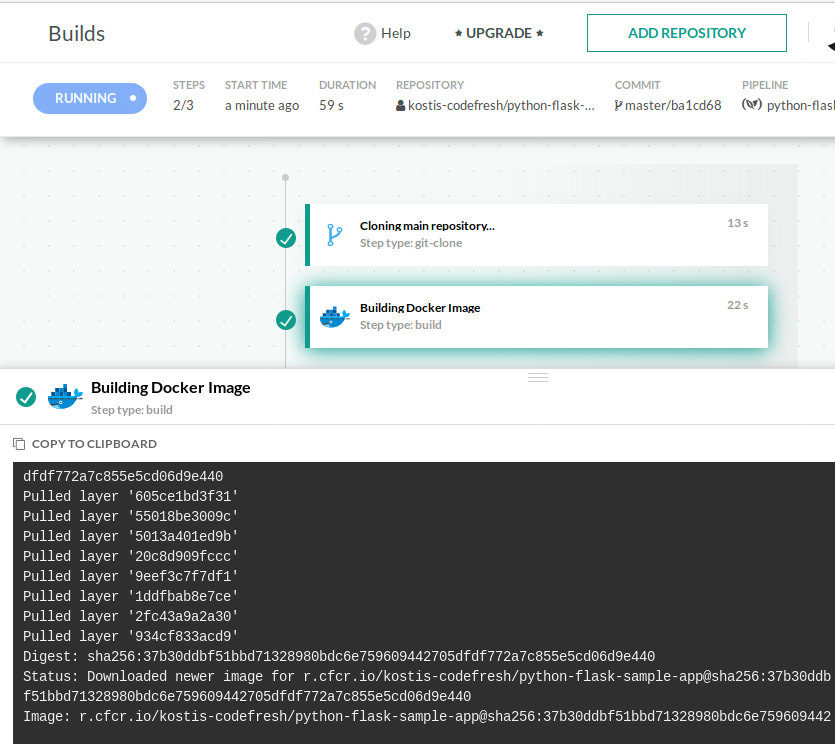
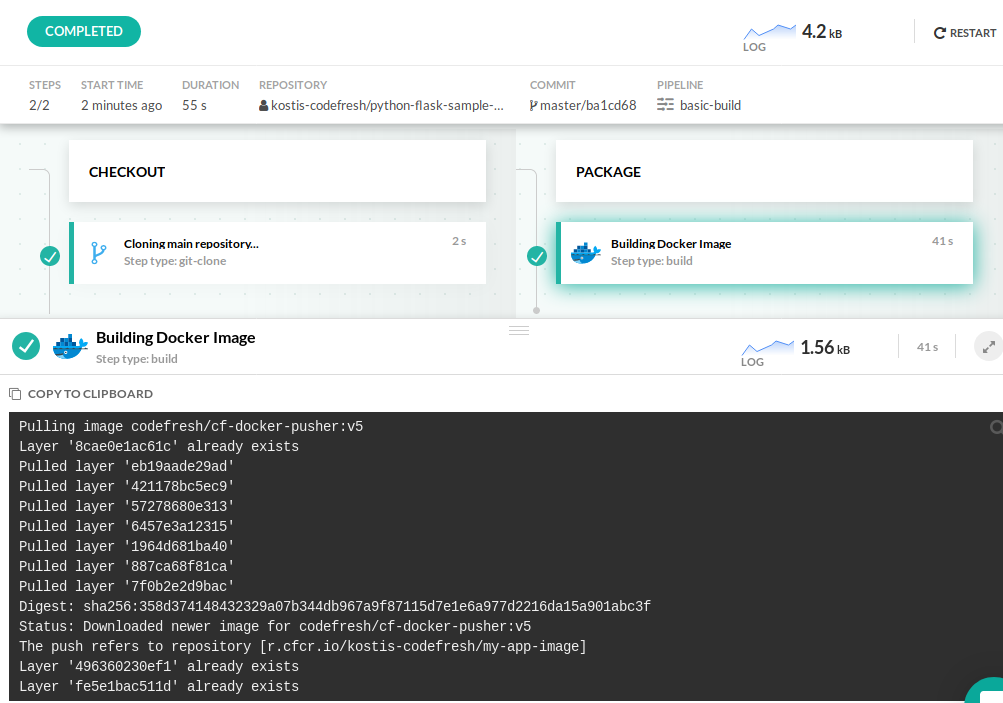
Started quick start for projects

diff --git a/_docs/getting-started/create-a-basic-pipeline.md b/_docs/getting-started/create-a-basic-pipeline.md
@@ -113,138 +113,82 @@ Because all Codefresh capabilities are based on Docker images, Docker is also se
 The example application already comes with its own Dockerfile, making the creation of a Codefresh pipeline very easy.
 Let's start by going into the [Codefresh dashboard](https://g.codefresh.io/repositories) (after [creating your account]({{site.baseurl}}/docs/getting-started/create-a-codefresh-account/))
 
-###  Selecting your Git repository
+### Creating a new project
 
-Make sure that you have selected *Repositories* from the left sidebar.
-Then click the *Add new repository* button to get started.
+Codefresh pipelines are grouped under [projects]({{site.baseurl}}/docs/configure-ci-cd-pipeline/pipelines/#pipeline-concepts). Project names can be anything you want with the most common example being the name of an application where all pipelines in the project are packaging/deploying the different microservices. You can think of projects as "folders/directories" for your pipelines.
 
-{% include 
-image.html 
-lightbox="true" 
-file="/images/getting-started/quick-start-ci/add-new.png" 
-url="/images/getting-started/quick-start-ci/add-new.png" 
-alt="Add new repository" 
-caption="Add new repository (click image to enlarge)" 
-max-width="60%" 
-%}
+Make sure that you have selected *Projects* from the left sidebar. Then click on the *Add project* button on the top right corner to get started.
 
-You will see a list with all your Github repositories. Locate the one that holds the `python-flask-sample-app` application and click the *Next* button.
+Enter a name for your project (e.g. `my-first-project`) and choose a sample icon that you like. You can also optionally add tags that will be used for [access control]({{site.baseurl}}/docs/enterprise/access-control/) (most useful in a organization). For now leave the tags empty.
 
-{% include 
-image.html 
-lightbox="true" 
-file="/images/getting-started/quick-start-ci/select-git-repository.png" 
-url="/images/getting-started/quick-start-ci/select-git-repository.png" 
-alt="Select a repository" 
-caption="Select a repository (click image to enlarge)" 
-max-width="60%" 
-%}
+Click the *Create* button once you are done.
+You now have a new project and can start adding pipelines in it.
 
-###  Selecting the build method
+### Creating a new pipeline.
 
-At this point Codefresh will ask you how you want to build your application and it will offer 3 options with the middle-one preselected:
+Click the *Add pipeline* button in order to create a pipeline.
+Enter a name (e.g. `basic-build`). Make sure that the option *Add Git commit trigger* is selected.
 
 {% include 
 image.html 
 lightbox="true" 
-file="/images/getting-started/quick-start-ci/build-method.png" 
-url="/images/getting-started/quick-start-ci/build-method.png" 
-alt="Build method" 
-caption="Build method (click image to enlarge)" 
-max-width="60%" 
+file="/images/getting-started/quick-start-ci/create-pipeline.png" 
+url="/images/getting-started/quick-start-ci/create-pipeline.png" 
+alt="Create a new pipeline" 
+caption="Create a new pipeline (click image to enlarge)" 
+max-width="50%" 
 %}
 
-The options are:
+Find your repository from the list and select it. This way your pipeline will be automatically launched when a commit happens on this repository. 
 
-1. Use Codefresh.yml file (flexible solution)
-1. Use Dockerfile (easy solution)
-1. Create Dockerfile (guided solution)
+You can also select a template for the pipeline. The Python one is relevant for this project, but we will not use it anyway so feel free to select anything from the list.
 
-The middle option is the easiest to start with and the one that we will select. Codefresh will use the application
-Dockerfile as the basis for the build and test process. This means that your Docker image describes on its own
-the steps to package and prepare the application. This is usually the case for interpreted runtimes (Ruby, Python etc).
+Click the *Create* button. Your pipeline was created and you should now see the pipeline editor. Here you can describe what the pipeline will do using [Codefresh YAML]({{site.baseurl}}/docs/codefresh-yaml/what-is-the-codefresh-yaml/).
 
-If your own application is using a compiled language such as Go or Java the Dockerfile should both compile and package
-the application (hopefully using [Multi-Stage builds](https://docs.docker.com/develop/develop-images/multistage-build/)).
+###  Build the docker image
 
-In our example application we already have provided an associated Dockerfile, so just click *Select* in the middle panel to go forward.
+You will create a very simple pipeline that checks out the source code and build a docker image.
+Delete the existing contents on the editor and paste the following:
 
+`codefresh.yml`
+{% highlight yaml %}
+{% raw %}
+version: '1.0'
+stages:
+  - checkout
+  - package
+steps:
+  main_clone:
+    title: Cloning main repository...
+    type: git-clone
+    repo: '${{CF_REPO_OWNER}}/${{CF_REPO_NAME}}'
+    revision: '${{CF_REVISION}}'
+    stage: checkout
+  MyAppDockerImage:
+    title: Building Docker Image
+    type: build
+    stage: package
+    image_name: my-app-image
+    working_directory: ./
+    tag: v1.0.0
+    dockerfile: Dockerfile
+{% endraw %}      
+{% endhighlight %}
 
+This pipeline contains just two steps.
 
-### Locating the Dockerfile
+* A [Git clone step]({{site.baseurl}}/docs/codefresh-yaml/variables/) for checking out the code
+* a [Build step]({{site.baseurl}}/docs/codefresh-yaml/steps/build-1/) for building the docker image.
 
-In this step Codefresh informs you that it will use the Dockerfile located in the root of the repository and shows you the Docker
-command it will execute to obtain the Docker image. The defaults are ok for the sample application, so click the *Next* button to go forward.
+The clone step is also using some [built-in pipeline variables]({{site.baseurl}}/docs/codefresh-yaml/steps/git-clone/). They instruct the pipeline to checkout the exact code that is described from the commit of the trigger. Don't worry if the exact details are not clear to you yet. 
 
-{% include 
-image.html 
-lightbox="true" 
-file="/images/getting-started/quick-start-ci/docker-file-locate.png" 
-url="/images/getting-started/quick-start-ci/docker-file-locate.png" 
-alt="Locate Dockerfile" 
-caption="Locate Dockerfile (click image to enlarge)" 
-max-width="60%" 
-%}
+The build step uses a [Dockerfile](https://github.com/codefresh-contrib/python-flask-sample-app/blob/master/Dockerfile) that is located at the root folder of the project and creates a Docker image with tag `v1.0.0`.
 
-In this step Codefresh shows you the contents of the Dockerfile it has detected, allowing you to make a final check. 
- Click *Create* to complete this 
-step of the wizard.
+Click the *Save* button to apply your changes. Then click the *Run* button to start your pipeline.
+On the dialog that will appear leave the default selections.
 
-{% include 
-image.html 
-lightbox="true" 
-file="/images/getting-started/quick-start-ci/inspect-docker-file.png" 
-url="/images/getting-started/quick-start-ci/inspect-docker-file.png" 
-alt="Inspecting the Dockerfile" 
-caption="Inspecting the Dockerfile (click image to enlarge)" 
-max-width="60%" 
-%}
-
-The final step asks you which branch you want to use for the main build. Leave the default (master) and click *Create Pipeline*.
-
-The Git repository is now successfully added into Codefresh. From now on you can find the project in the main Codefresh Dashboard (*repositories*)
 
 ### Starting the first build
-
-Codefresh will then present to you the configuration settings for your first pipeline. 
-By default the pipeline is set to be configured by [Codefresh YAML]({{site.baseurl}}/docs/codefresh-yaml/what-is-the-codefresh-yaml/). For the purposes of this tutorial we will use the much easier *Basic* mode
-that pre-configures the pipeline with some basic steps.
-
-Find the toggle switch on the right of the editor and click it to activate basic mode. A warning will appear, where you should answer *yes*. 
-
-{% include 
-image.html 
-lightbox="true" 
-file="/images/getting-started/quick-start-ci/yaml-toggle.png" 
-url="/images/getting-started/quick-start-ci/yaml-toggle.png" 
-alt="Switching to Basic mode" 
-caption="Switching to Basic mode" 
-max-width="100%" 
-%}
-
-
-The defaults of the *basic mode* are fine
-for the sample application. Click the *Build* button and then confirm the next dialog to start your first build with Codefresh!
-
-{% include 
-image.html 
-lightbox="true" 
-file="/images/getting-started/quick-start-ci/build-button.png" 
-url="/images/getting-started/quick-start-ci/build-button.png" 
-alt="Starting the build" 
-caption="Starting the build (click image to enlarge)" 
-max-width="40%" 
-%}
-
-Congratulations! Your first build with Codefresh is now underway. Codefresh will now start the build process by:
-
-1. Connecting to Github and fetch the contents of the application
-1. Reading the Dockerfile found in the root directory
-1. Building the docker image, exactly as the Docker `build` command
-1. Storing the result image into its built-in Docker registry
-
-
-### Build progress and results
 
 Once the build is started you Codefresh will navigate you to the build progress of the sample application.
 
@@ -258,10 +202,8 @@ caption="Monitoring the build (click image to enlarge)"
 max-width="40%" 
 %}
 
-The build output is split into sections. Expand the section *Building Docker Image* and look at the logs. You 
-should see similar output to the one produced locally when we explored the sample application.
-
-After a while the build should be finished with success. All previous runs are in the [Builds part](https://g.codefresh.io/builds) from now on.
+The build output is split into sections. Expand the section *Building Docker Image* and look at the logs. 
+After a while the build should finish with success. All previous runs are in the [Builds part](https://g.codefresh.io/builds) from now on.
 
 {% include 
 image.html 
@@ -291,43 +233,56 @@ max-width="80%"
 
 
 
-We need to add the tests in the build process. To do this we will get back to the pipeline settings of the application.
-First navigate to the Codefresh dashboard and locate the sample application. Then click on the *settings* icon.
+We need to add the tests in the build process. To do this we will get back to the pipeline settings of the application. Click on the name of the pipeline in the build log screen.
 
-{% include 
-image.html 
-lightbox="true" 
-file="/images/getting-started/quick-start-ci/dashboard.png" 
-url="/images/getting-started/quick-start-ci/dashboard.png" 
-alt="Changing build settings" 
-caption="Changing build settings (click image to enlarge)" 
-max-width="40%" 
-%}
-
-The pipeline settings screen will appear. Codefresh has built-in support for unit testing. As part of the build process Codefresh already has a separate section labeled unit tests. Enter the following line:
+The sample application already has unit tests that can be executed with:
 
 ``` 
 python setup.py test
 ```
 
-These are the expected command for the sample application, so feel free to replace them with your own unit test command.
+Edit the pipeline as below:
+
+`codefresh.yml`
+{% highlight yaml %}
+{% raw %}
+version: '1.0'
+stages:
+  - checkout
+  - package
+  - test  
+steps:
+  main_clone:
+    title: Cloning main repository...
+    type: git-clone
+    repo: '${{CF_REPO_OWNER}}/${{CF_REPO_NAME}}'
+    revision: '${{CF_REVISION}}'
+    stage: checkout
+  MyAppDockerImage:
+    title: Building Docker Image
+    type: build
+    stage: package
+    image_name: my-app-image
+    working_directory: ./
+    tag: v1.0.1
+    dockerfile: Dockerfile
+  MyUnitTests:
+    title: Running Unit tests
+    image: '${{MyAppDockerImage}}'
+    stage: test 
+    commands:
+      - python setup.py test    
+{% endraw %}      
+{% endhighlight %}
+
+Here we have added a new [freestyle step]({{site.baseurl}}/docs/codefresh-yaml/steps/freestyle/) in its own stage that runs unit tests. Freestyle steps are running custom commands inside docker containers and in this case we run the python command inside the docker image that was just created from the previous step (mentioned by the `image` property)
 
 
-{% include 
-image.html 
-lightbox="true" 
-file="/images/getting-started/quick-start-ci/unit-tests.png" 
-url="/images/getting-started/quick-start-ci/unit-tests.png" 
-alt="Adding Unit tests" 
-caption="Adding Unit tests (click image to enlarge)" 
-max-width="50%" 
-%}
 
 
+Notice that Codefresh also has the capability to run [integration tests]({{site.baseurl}}/docs/codefresh-yaml/steps/composition-1/) and get [test results]({{site.baseurl}}/docs/testing/test-reports/) as well. Therefore, regardless of the type of tests you employ, Codefresh can accommodate your testing process in a fully automated manner as part of the main build.
 
-Notice that Codefresh also has the capability to run integration tests as well. Therefore, regardless of the type of tests you employ, Codefresh can accommodate your testing process in a fully automated manner as part of the main build.
-
-Once you are done with the unit test lines, click first the *Save* button to apply your changes and then the *Build* button to restart the build.
+Click first the *Save* button to apply your changes and then the *Run* button to restart the build.
 
 This time the build results will contain a new section labeled *Running unit tests*. It will contain the 
 test output of the application.
@@ -343,7 +298,7 @@ max-width="60%"
 %}
 
 This concludes the basic build for the example application. Codefresh offers several more capabilities 
-than the ones shown here. If you have an application that has a more complex build process than a single Dockerfile, you should instead spend some time to read the [YAML documentation]({{site.baseurl}}/docs/codefresh-yaml/what-is-the-codefresh-yaml/).
+than the ones shown here. You can read more about pipelines in the [YAML documentation]({{site.baseurl}}/docs/codefresh-yaml/what-is-the-codefresh-yaml/).
 
 
 ## Storing Docker images in Codefresh
